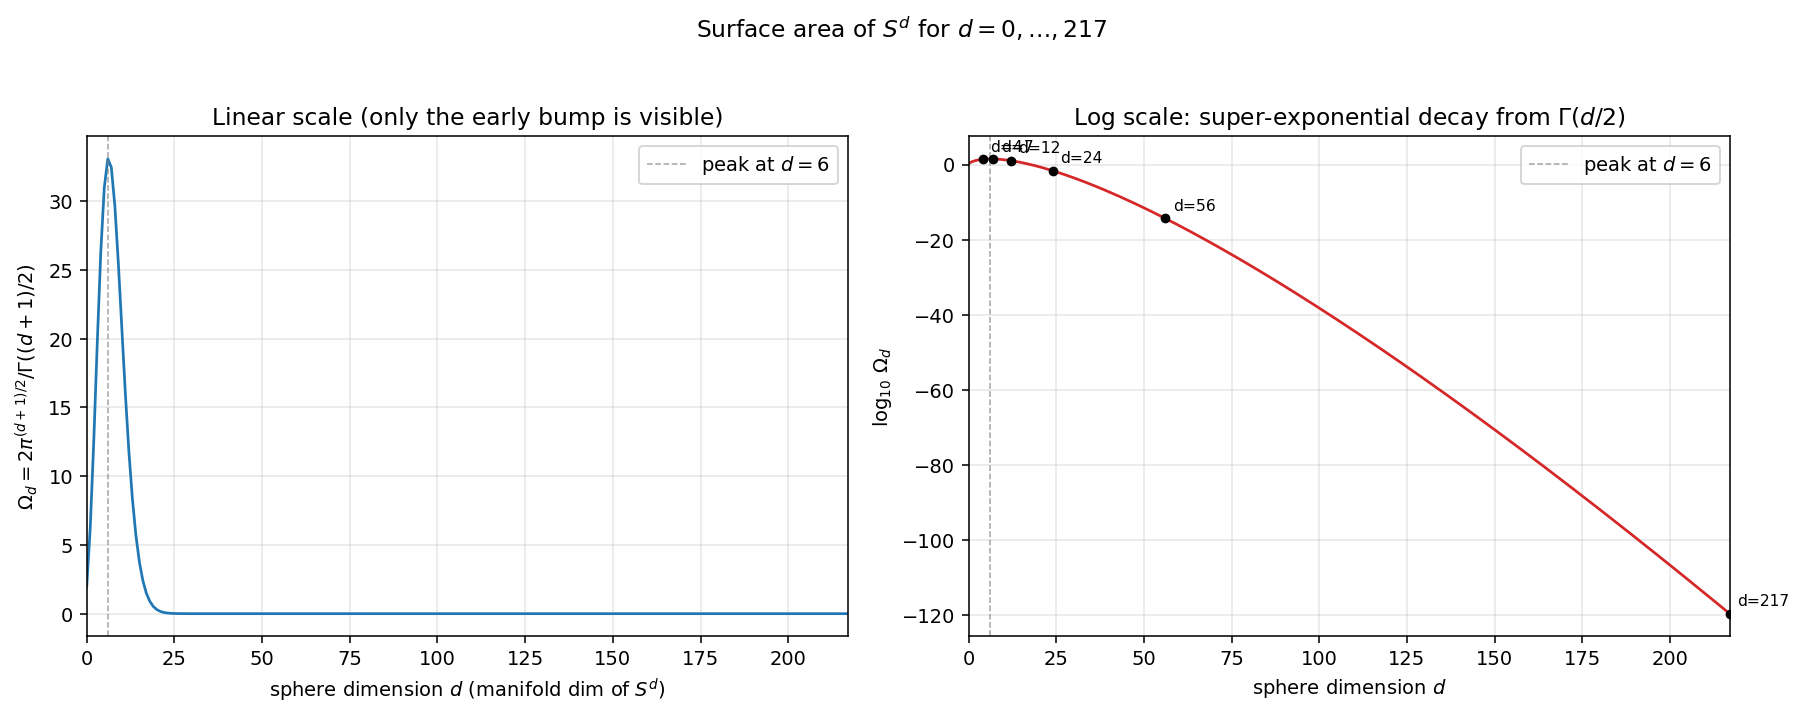
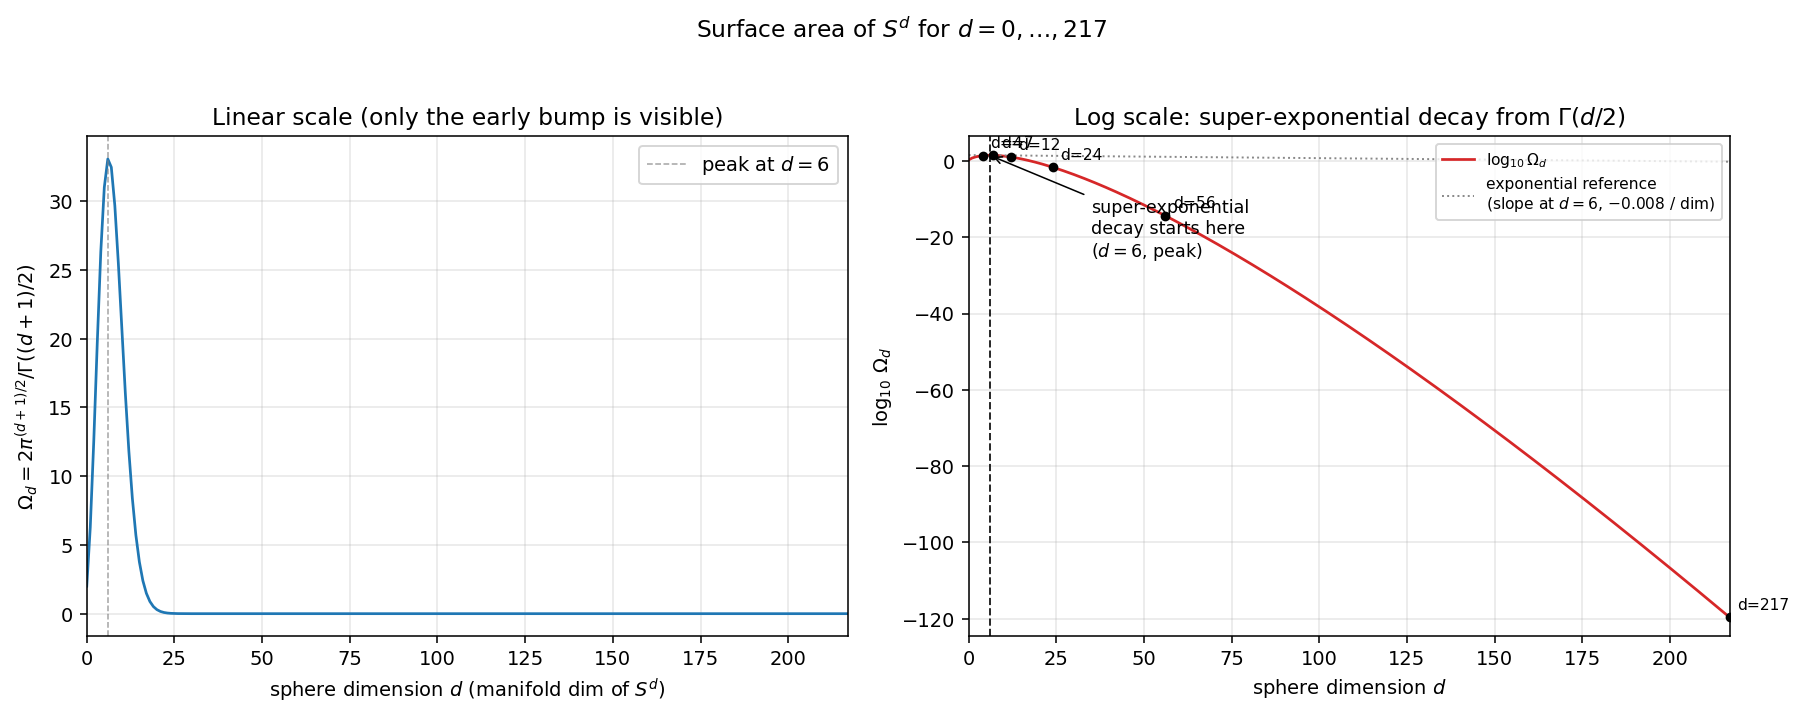
sphere_area plot: mark onset of super-exponential decay at d=6
Add an explicit annotation at the peak (d=6) labelled
"super-exponential decay starts here", plus a dotted exponential
reference line whose slope matches log10(Omega_d) at the peak
(~-0.008 per dim).  The reference stays nearly flat across the
whole d-range while the actual curve plunges to -120 — the
visual gap is the super-exponential signature.

https://claude.ai/code/session_01KMpRCLPUAijbHAUZL8CDXW

diff --git a/tools/research/plot_sphere_surface_area.py b/tools/research/plot_sphere_surface_area.py
@@ -27,7 +27,7 @@ _REPO = os.path.dirname(_TOOLS)
 sys.path.insert(0, _TOOLS)
 
 import matplotlib.pyplot as plt
-from mpmath import log10, mp
+from mpmath import digamma, log, log10, mp, mpf, pi as mppi
 
 from cascade_constants import mp as cmp  # arbitrary-precision backend
 
@@ -41,6 +41,21 @@ log_omega = [float(log10(v)) for v in omega]
 omega_float = [float(v) for v in omega]
 
 peak_d = max(ds, key=lambda d: omega_float[d])
+
+# Slope of log10(Omega_d) at any d (continuous derivative):
+#   d/dd log Omega_d = (1/2) log pi - (1/2) psi((d+1)/2)
+# Convert to log10 by dividing by ln 10.
+def log10_slope(d):
+    return float((mppi.ln() / 2 - digamma(mpf(d + 1) / 2) / 2) / log(10))
+
+
+# Tangent line to log10(Omega_d) at the peak — slope ~ 0 there, but use
+# the secant from peak_d to peak_d+1 for a clean visual reference of
+# "what pure-exponential decay matching the post-peak rate would look
+# like."  Past the peak Omega_d sits strictly below this line because
+# the slope keeps getting more negative — the super-exponential signature.
+ref_slope = log_omega[peak_d + 1] - log_omega[peak_d]  # log10 units / dim
+ref_line = [log_omega[peak_d] + ref_slope * (d - peak_d) for d in ds]
 
 out_dir = os.path.join(_REPO, "src", "generated", "sphere_area")
 os.makedirs(out_dir, exist_ok=True)
@@ -67,9 +82,20 @@ ax.legend()
 ax.grid(alpha=0.3)
 
 ax = axes[1]
-ax.plot(ds, log_omega, lw=1.4, color="#d62728")
-ax.axvline(peak_d, color="grey", ls="--", lw=0.8, alpha=0.7,
-           label="peak at $d = {}$".format(peak_d))
+ax.plot(ds, log_omega, lw=1.4, color="#d62728", label=r"$\log_{10}\Omega_d$")
+ax.plot(ds, ref_line, lw=1.0, ls=":", color="#888",
+        label=("exponential reference\n"
+               "(slope at $d={}$, ${:+.3f}$ / dim)").format(peak_d, ref_slope))
+ax.axvline(peak_d, color="black", ls="--", lw=1.0, alpha=0.85)
+ax.annotate(
+    ("super-exponential\n"
+     "decay starts here\n"
+     r"($d = {}$, peak)").format(peak_d),
+    xy=(peak_d, log_omega[peak_d]),
+    xytext=(35, -25),
+    fontsize=9,
+    arrowprops=dict(arrowstyle="->", color="black", lw=0.8),
+)
 for d_mark in (4, 7, 12, 24, 56, D_MAX):
     if d_mark <= D_MAX:
         ax.plot(d_mark, log_omega[d_mark], "ko", ms=4)
@@ -80,7 +106,13 @@ ax.set_xlabel("sphere dimension $d$")
 ax.set_ylabel(r"$\log_{10}\,\Omega_d$")
 ax.set_title(r"Log scale: super-exponential decay from $\Gamma(d/2)$")
 ax.set_xlim(0, D_MAX)
-ax.legend()
+# Cap the y-axis so the exponential reference line doesn't blow the scale
+# (it would go to ~-15 at d=217 if slope at d=peak is shallow; bound it
+# tightly to the actual data range with a small margin).
+y_lo = min(log_omega) - 5
+y_hi = max(log_omega) + 5
+ax.set_ylim(y_lo, y_hi)
+ax.legend(loc="upper right", fontsize=8)
 ax.grid(alpha=0.3)
 
 fig.suptitle(r"Surface area of $S^d$ for $d = 0,\ldots," + str(D_MAX) + r"$",
